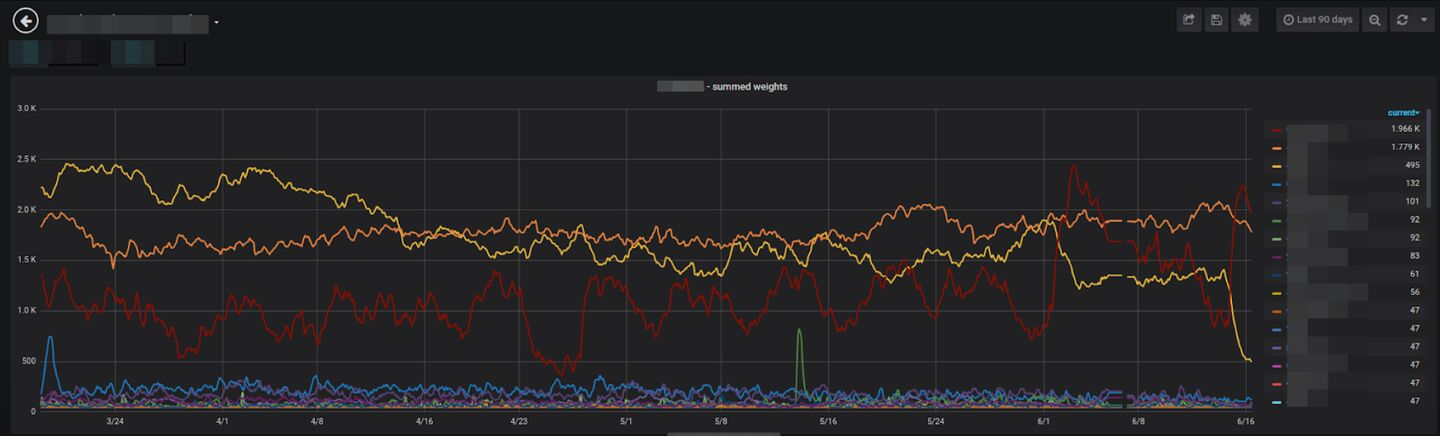
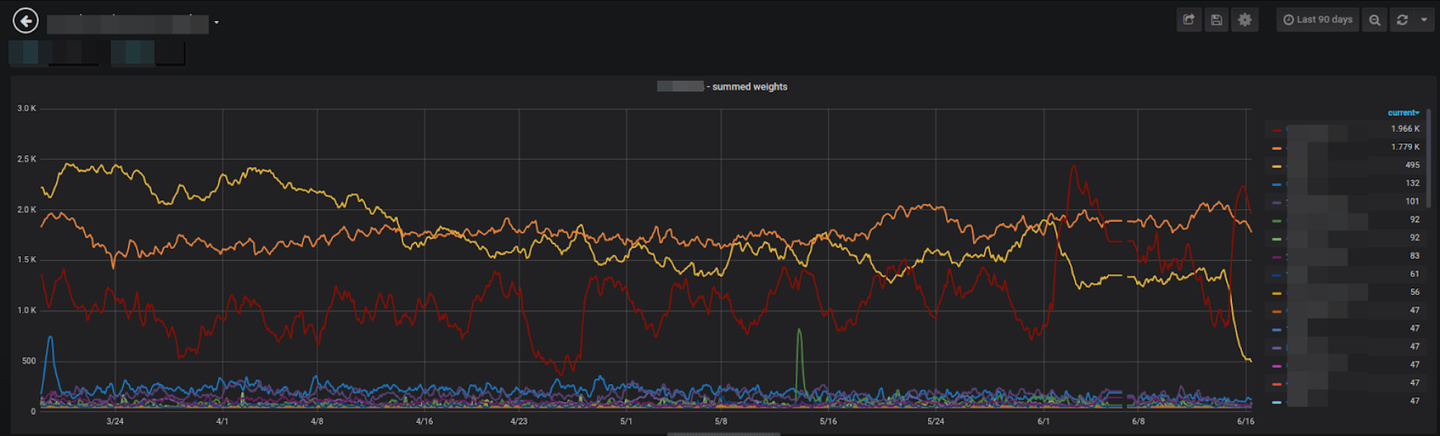
Images.

diff --git a/content/posts/2021-08-20-efficient_resource_distribution.md b/content/posts/2021-08-20-efficient_resource_distribution.md
@@ -8,7 +8,7 @@ tags:
 - Algorithms
 ---
 
-<%= render('/post_hero.*', src: '/blog/assets/images/2021/resource-distribution.png', alt: "", caption: "") %>
+<%= render('/post_hero.*', src: '/blog/assets/images/2021/resource-distribution.jpg', alt: "", caption: "") %>
 
 >**TLDR** A simple metrics-based ranking system is good enough to decide who gets how many resources.
 
@@ -53,4 +53,4 @@ The global sum of weights is kept more or less the same because we're summing an
 
 To finalize, here's a chart showing the weights of different types of consumers over the last few months:
 
-<%= render('/image.*', src: '/blog/assets/images/2021/grafana.png', alt: "Dashboard showing a chart with several colored lines representing the weights of each consumer class.", caption: "Consumer class weights over time.") %>
+<%= render('/image.*', src: '/blog/assets/images/2021/grafana.jpg', alt: "Dashboard showing a chart with several colored lines representing the weights of each consumer class.", caption: "Consumer class weights over time.") %>
